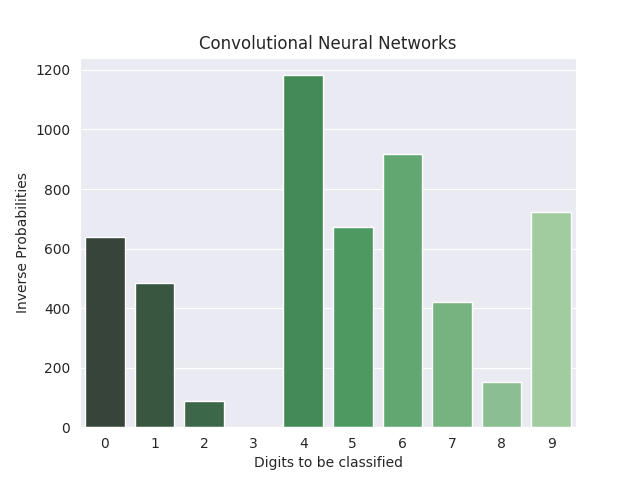
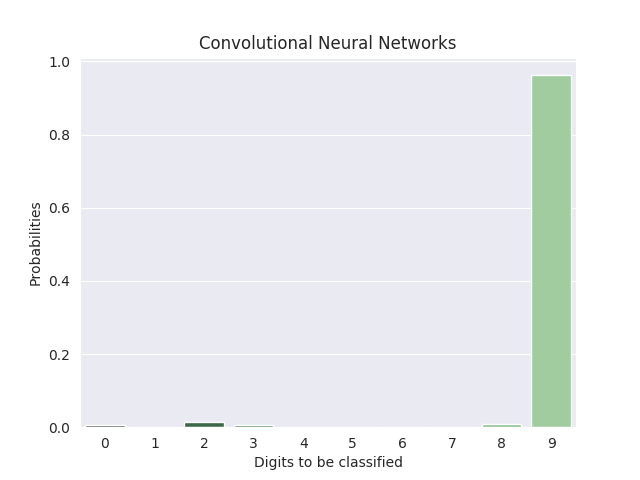
fixed the inverse probability situation

diff --git a/templates/index.html b/templates/index.html
@@ -85,8 +85,7 @@
 	<div id="debug" style="margin:65px; margin-top:100px;">
 
 
-		<!-- <input type="color" id="colors">
-			 <input type="number" id="lineWidth" style="width:60px" value="0.2" step="0.1" min="0.1">  -->
+		
 		<input type="button" id="clearButton" value="Clear" class="btn primary-btn" style="margin-left:-350px;">
 		<br />
 		<span style="color: #4DAF7C; font-weight: 400; font-family: 'Open Sans', Helvetica; margin-left:-350px">Draw the Digit inside this Box!</span>
@@ -153,7 +152,6 @@
 			}
 		});
 	   		});
-
 
 	</script>
 </body>

diff --git a/app.py b/app.py
@@ -79,15 +79,15 @@ def cnn_predict():
 
     x = getInput(imgData)
     cnn_output = cnn_model(x)
+    cnn_output = torch.exp(cnn_output)
     cnn_output = cnn_output.detach().numpy()
-    cnn_output = cnn_output *-1
     cnn = cnn_output.flat
     values = [0, 1, 2, 3, 4, 5, 6, 7, 8, 9]
     plt.clf()
     sns.set_style('darkgrid')
     sns.barplot(x=values, y=list(cnn), palette='Greens_d')
     plt.xlabel('Digits to be classified')
-    plt.ylabel('Inverse Probabilities')
+    plt.ylabel('Probabilities')
     plt.title('Convolutional Neural Networks')
     plt.savefig('./static/cnn.png')
     plt.clf()
